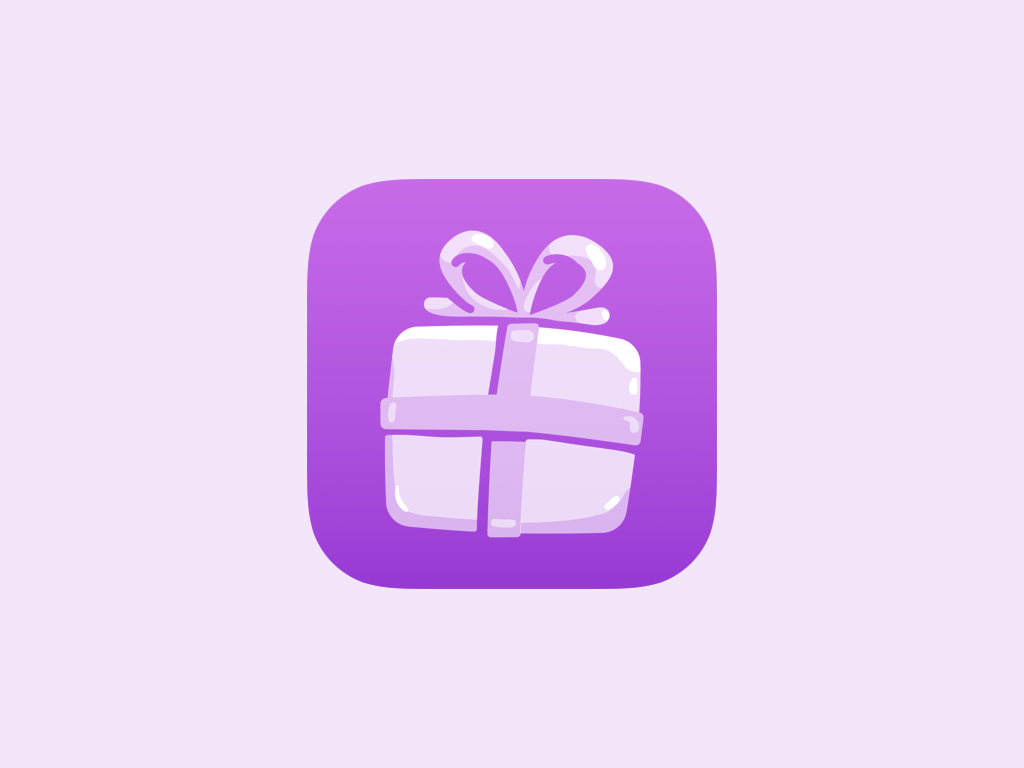
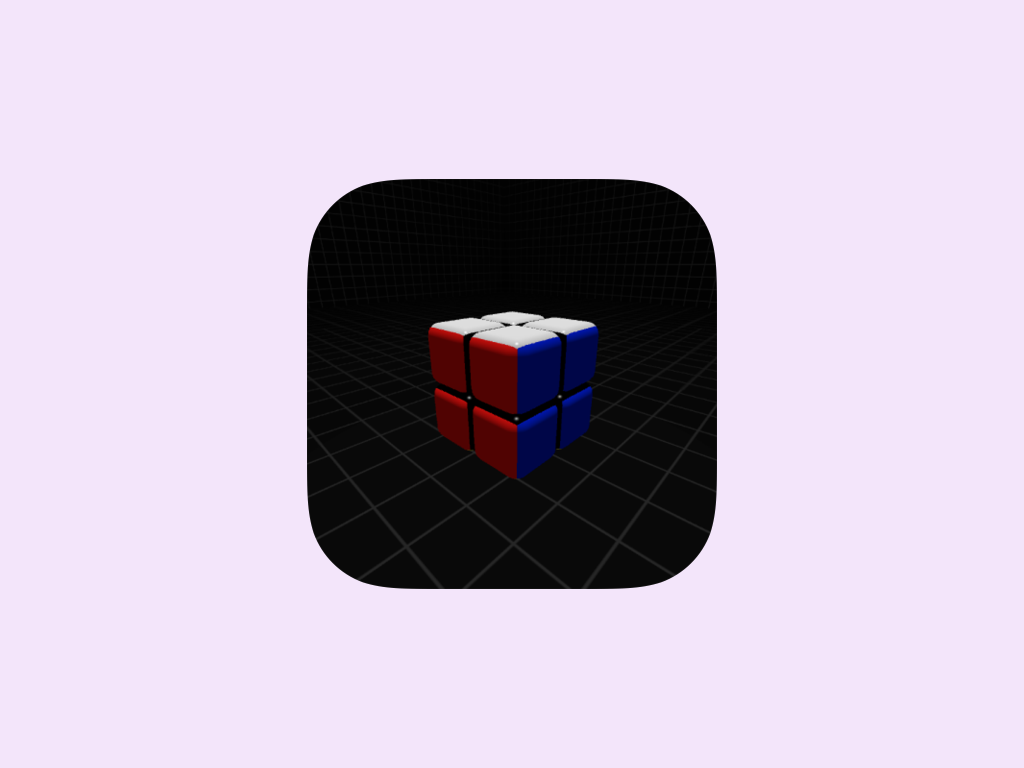
assets update

Changed region(s): [[0.2812, 0.2188, 0.7188, 0.7812]]

diff --git a/SwiftStudentChallenge2025.swiftpm/View/Home/HUDView.swift b/SwiftStudentChallenge2025.swiftpm/View/Home/HUDView.swift
@@ -56,9 +56,10 @@ struct CardInfoView: View {
     @EnvironmentObject private var cameraVM: CameraViewModel
 
     @State private var itemsOffset: CGFloat = 300
-    @State private var selectedPosition: CameraPositionOnRealIpad?
+    @State private var selectedPosition: CameraPositionOnRealIpad? = nil // Remover valor inicial
     
     @Binding var showInfoView: Bool
+    @State private var showAlert = false // Para exibir o alerta
 
     var body: some View {
         HStack(alignment: .top) {
@@ -88,26 +89,27 @@ struct CardInfoView: View {
         .onAppear {
             withAnimation(Animation.bouncy(duration: 1.5).delay(0.5)) {
                 itemsOffset = 0
-                if UserIpadSchemaManager.getCameraPosition() == nil {
-                    selectedPosition = .top
-                } else {
-                    selectedPosition = UserIpadSchemaManager.getCameraPosition()
-                }
             }
         }
         
         // X BUTTON
         .overlay(alignment: .topTrailing) {
             CustomButton(icon: "xmark") {
-                withAnimation { showInfoView = false }
-                cameraVM.checkCameraPermission()
+                if selectedPosition == nil {
+                    showAlert = true // alert if no iPad schema selection
+                } else {
+                    withAnimation {
+                        showInfoView = false
+                    }
+                    cameraVM.checkCameraPermission()
+                }
             }
             .padding([.top, .trailing], -40)
         }
         // iPad buttons
         .overlay(alignment: .bottomTrailing) {
             VStack {
-                Text("Where is your iPad's front camera?")
+                Text("Select your iPad's front camera position:")
                     .multilineTextAlignment(.center)
                     .font(.callout)
                 HStack(spacing: 70) {
@@ -153,6 +155,18 @@ struct CardInfoView: View {
         .background {
             Color.black.opacity(0.9).blur(radius: 5).ignoresSafeArea()
         }
+        .onAppear {
+            if let currentIpadSchema = UserIpadSchemaManager.getCameraPosition() {
+                selectedPosition = currentIpadSchema
+            }
+        }
+        .alert(isPresented: $showAlert) {
+            Alert(
+                title: Text("Please choose an iPad schema"),
+                message: Text("You must select either the top or side camera position to proceed."),
+                dismissButton: .default(Text("OK"))
+            )
+        }
     }
 
     // userdefaults info save
@@ -161,6 +175,7 @@ struct CardInfoView: View {
         UserIpadSchemaManager.saveCameraPosition(position)
     }
 }
+
 
 #Preview {
     CardInfoView(showInfoView: .constant(true))

diff --git a/SwiftStudentChallenge2025.swiftpm/View/AlertCards/AlertCardView.swift b/SwiftStudentChallenge2025.swiftpm/View/AlertCards/AlertCardView.swift
@@ -33,7 +33,7 @@ struct AlertCardView: View {
                     
                     Text(phase.description)
                         .foregroundStyle(.white)
-                        .font(.headline)
+                        .font(.footnote)
                         .padding(.bottom)
                 }
                 .padding(15)
@@ -60,5 +60,11 @@ struct AlertCardView: View {
             .padding(50)
             .ignoresSafeArea()
         }
+    }
+}
+
+#Preview {
+    AlertCardView(phase: .handsVisible) {
+        
     }
 }

diff --git a/SwiftStudentChallenge2025.swiftpm/Package.swift b/SwiftStudentChallenge2025.swiftpm/Package.swift
@@ -20,7 +20,7 @@ let package = Package(
             teamIdentifier: "5GYXF2FP9Y",
             displayVersion: "1.0",
             bundleVersion: "1",
-            appIcon: .placeholder(icon: .gift),
+            appIcon: .asset("AppIcon"),
             accentColor: .presetColor(.purple),
             supportedDeviceFamilies: [
                 .pad,

diff --git a/SwiftStudentChallenge2025.swiftpm/View/SceneTutorial/CardView.swift b/SwiftStudentChallenge2025.swiftpm/View/SceneTutorial/CardView.swift
@@ -6,7 +6,6 @@
 //
 
 import SwiftUI
-import AVKit
 
 struct CardView: View {
     let phase: SceneTutorialPhases
